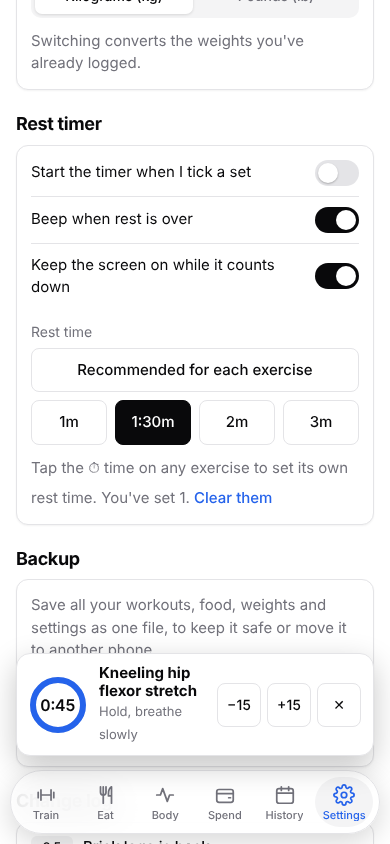
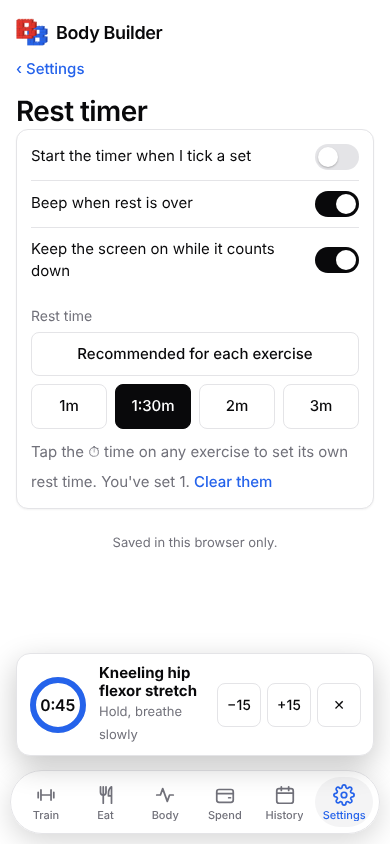
Version 2.6: Settings menu with sub-pages, foldable Train sections
- Settings is a short menu; each section opens on its own page, Change log last
- Warm-up, stretches and cardio fold; finished exercises fold to one line
- Edit page sections fold

Claude-Session: https://claude.ai/code/session_01PPQnAJQwZUgLDScDXN9x8H

diff --git a/index.html b/index.html
@@ -494,6 +494,36 @@ textarea.field.area{height:auto;min-height:96px;padding:10px;resize:vertical;lin
 .guide .vtag{width:auto;min-width:30px;padding:0 6px;font-variant-numeric:tabular-nums}
 .cld{display:block;font-weight:400;font-size:12px;color:var(--muted);margin:2px 0 0 46px}
 .clog summary>span{display:block}
+.secwrap{margin:22px 0 8px}
+.secbtn{display:flex;align-items:center;gap:8px;width:100%;border:0;background:none;padding:2px 0;text-align:left;font:inherit;color:inherit}
+.secbtn span{font-size:18px;font-weight:600;letter-spacing:-.02em}
+.secbtn small{margin-left:auto;font-size:13px;font-weight:400;color:var(--muted);letter-spacing:0}
+.secbtn svg{flex:none;color:var(--muted);transition:transform .15s}
+.secbtn[aria-expanded="true"] svg{transform:rotate(180deg)}
+.exdone{padding:0}
+.exdonebtn{display:flex;align-items:center;gap:12px;width:100%;border:0;background:none;padding:12px 14px;text-align:left}
+.exdonebtn .dchk{flex:none;width:26px;height:26px;border-radius:7px;display:grid;place-items:center;background:var(--c);color:var(--on);font-size:14px}
+.exdt{flex:1;min-width:0}
+.exdt strong{display:block;font-weight:500}
+.exdt small{display:block;color:var(--muted);font-size:13px}
+.exdonebtn svg{flex:none;color:var(--muted)}
+.edfold{padding:0}
+.edhd{display:flex;align-items:center;gap:10px;width:100%;border:0;background:none;text-align:left;padding:12px 14px}
+.edhd span{flex:1;min-width:0}
+.edhd strong{display:block;font-weight:500}
+.edhd small{display:block;color:var(--muted);font-size:13px;white-space:nowrap;overflow:hidden;text-overflow:ellipsis}
+.edhd svg{flex:none;color:var(--muted);transition:transform .15s}
+.edhd[aria-expanded="true"] svg{transform:rotate(180deg)}
+.edbody{padding:0 14px 14px;border-top:1px solid var(--line);padding-top:10px}
+.setnav{padding:0;overflow:hidden}
+.setrowbtn{display:flex;align-items:center;gap:10px;width:100%;border:0;border-top:1px solid var(--line);background:none;text-align:left;padding:13px 14px;min-height:56px}
+.setrowbtn:first-child{border-top:0}
+.setrowbtn span{flex:1;min-width:0}
+.setrowbtn strong{display:block;font-weight:500}
+.setrowbtn small{display:block;color:var(--muted);font-size:13px;white-space:nowrap;overflow:hidden;text-overflow:ellipsis}
+.setrowbtn svg{flex:none;color:var(--muted);transform:rotate(-90deg)}
+.setrowbtn:active{background:var(--mutedbg)}
+.backbtn{border:0;background:none;color:var(--blue);font-weight:500;padding:6px 0;font-size:15px}
 /* ---- tab island ---- */
 .island{position:fixed;left:50%;transform:translateX(-50%);bottom:calc(10px + env(safe-area-inset-bottom,0px));width:min(536px,calc(100% - 20px));display:flex;gap:2px;padding:6px;border-radius:999px;background:color-mix(in srgb,var(--surface) 80%,transparent);-webkit-backdrop-filter:blur(18px) saturate(1.6);backdrop-filter:blur(18px) saturate(1.6);border:1px solid var(--line);box-shadow:0 8px 28px rgba(0,0,0,.16);z-index:40}
 .itab{flex:1;min-width:0;display:flex;flex-direction:column;align-items:center;gap:3px;border:0;background:none;border-radius:999px;padding:7px 2px 6px;color:var(--muted);font-size:11px;font-weight:500;line-height:1.1}
@@ -1334,7 +1364,7 @@ const TABDEF={
 const TAB_ORDER=["train","eat","body","spend","hist","settings"],TAB_LOCKED=["train","eat","settings"];
 function tabCfg(){const c=store.settings.tabs||{};const order=(Array.isArray(c.order)?c.order:[]).filter((t,i,a)=>TABDEF[t]&&a.indexOf(t)===i);for(const t of TAB_ORDER)if(!order.includes(t))order.push(t);
   const hidden=(Array.isArray(c.hidden)?c.hidden:[]).filter(t=>TABDEF[t]&&!TAB_LOCKED.includes(t));return {order,hidden};}
-function openTab(t){if(!TABDEF[t])return;tab=t;render();window.scrollTo(0,0);}
+function openTab(t){if(!TABDEF[t])return;if(t==="settings"&&typeof setPage!=="undefined")setPage=null;tab=t;render();window.scrollTo(0,0);}
 function renderTabs(){const {order,hidden}=tabCfg();
   $("island").innerHTML=order.filter(t=>!hidden.includes(t)).map(t=>`<button type="button" class="itab" data-tab="${t}" aria-current="${t===tab?"page":"false"}">${TABDEF[t][1]}<span>${TABDEF[t][0]}</span></button>`).join("");}
 function hiddenTabNote(){const {hidden}=tabCfg();if(!hidden.includes(tab))return "";
@@ -1485,6 +1515,10 @@ function lastDrop(e,i){const [id,,,,flag]=e,k=sel,L=lastSetAt(id,k,i),b=bestFor(
 function rowsInfo(day,e){const id=e[0],rws=(day.sets&&day.sets[id])||[],rc=rowCount(day,e),types=[];for(let i=0;i<rc;i++)types.push(rowType(e,rws[i],i));return {rws,rc,types};}
 function singleCard(e,ctx){
   const [id,name,sets,target,flag,drop]=e,{k,p,day,v2}=ctx;
+  {const R=rowsInfo(day,e),all=R.rc>0&&Array.from({length:R.rc},(_,i)=>R.rws[i]&&R.rws[i].d).every(Boolean);
+   if(all&&!exOpen.has(k+":"+id)){const N=v=>parseFloat(String(v||"").replace(",","."))||0,top=R.rws.filter(r=>r&&r.d&&N(r.r)>0).sort((a,c)=>N(c.w)-N(a.w)||N(c.r)-N(a.r))[0];
+     return `<article class="card ex exdone" data-ex="${id}"><button type="button" class="exdonebtn" data-act="exexp" aria-label="${esc(name)}, all sets done. Tap to open"><span class="dchk">✓</span><span class="exdt"><strong>${esc(name)}</strong><small>${R.rc} ${R.rc===1?"set":"sets"} done${top?" · best "+setText(top,flag):""}</small></span>${IC.chev}</button></article>`;}
+   ctx._all=all;}
   let h=`<article class="card ex" data-ex="${id}">`+headerHtml(e,ctx);
   const rt=restFor(id,p,k),uni=v2&&UNI[id];
   if(rt&&(sets>1||drop))h+=`<button type="button" class="restbtn" data-act="restpick" data-id="${id}" aria-label="Rest time for ${esc(name)}: ${secLabel(restSecs(id,p,k))}. Tap to change.">${uni?"Go straight from one "+uni+" to the other, then rest":"Rest between sets"} <span class="chip">⏱ ${secLabel(restSecs(id,p,k))}${restOverride(id)?" (yours)":""}</span></button>`;
@@ -1493,7 +1527,7 @@ function singleCard(e,ctx){
   for(let i=0;i<rc;i++){const r=rws[i]||{w:"",r:"",d:false},isDrop=types[i]==="d";
     h+=setRowHtml(e,i,r,isDrop,isDrop?"↓":String(++num),true);
     if(isDrop&&!dropNoted&&types[i+1]!=="d"){dropNoted=true;h+=kw(`<p class="restline" style="margin:6px 0 0 4px">↑ Drop set: go straight into it with no rest. Cut the weight about 25–30% and go to failure.</p>`);}}
-  return h+`<div class="addrow"><button class="addset" data-act="addset">+ Set</button><button class="addset" data-act="adddrop">+ Drop set</button></div></article>`;
+  return h+`<div class="addrow"><button class="addset" data-act="addset">+ Set</button><button class="addset" data-act="adddrop">+ Drop set</button>${ctx._all?`<button class="addset" style="margin-left:auto;color:var(--muted)" data-act="excol">Fold away</button>`:""}</div></article>`;
 }
 function supersetCard(group,ctx){
   const {k,p,day,v2}=ctx,L="ABCDEF";
@@ -1510,9 +1544,14 @@ function supersetCard(group,ctx){
   }
   return h+`<div class="addrow"><button class="addset" data-act="addround" data-ids="${group.map(e=>e[0]).join(",")}">+ Round</button></div></article>`;
 }
+const secOpen={},exOpen=new Set(),edOpen=new Set();
+function secHead(k,sec,title,summary,auto){const key=k+":"+sec,col=key in secOpen?!secOpen[key]:auto;
+  return {col,html:`<h2 class="sec-title secwrap"><button type="button" class="secbtn" data-act="seccol" data-s="${sec}" data-c="${col?1:0}" aria-expanded="${!col}"><span>${title}</span><small>${summary}</small>${IC.chev}</button></h2>`};}
 function secWarm({k,p,P,v2,day},before){
   const WU=warmList(p,P,v2);if(!WU.length)return "";
-  return `<h2 class="sec-title">${before?"Warm-up, before "+(p==="run"?"the run":"training"):"Warm-up"}</h2><p class="note" style="margin:-4px 0 6px">About 5 minutes. Keep it moving, and save the long holds for after.</p>`+routineHtml("w",WU,day.warm||{});
+  const done=WU.filter((_,i)=>(day.warm||{})[i]).length,H=secHead(k,"warm",before?"Warm-up, before "+(p==="run"?"the run":"training"):"Warm-up",done>=WU.length?"Done":`${done} of ${WU.length} done`,done>=WU.length);
+  if(H.col)return H.html;
+  return H.html+`<p class="note" style="margin:-4px 0 6px">About 5 minutes. Keep it moving, and save the long holds for after.</p>`+routineHtml("w",WU,day.warm||{});
 }
 function secWork({k,p,P,v2,day}){
   const todayEx=dayExercises(k,p),planIds=new Set(todayEx.map(e=>e[0])),hiddenIds=hiddenExIds(day);let h="";
@@ -1543,7 +1582,9 @@ function secCardio({k,p,day}){
   const cl=day.cardioLog||[];
   const mon=addDays(k,-((parseKey(k).getDay()+6)%7));let wkMin=0;
   for(let i=0;i<7;i++){const dd=store.days[addDays(mon,i)];for(const c of (dd&&dd.cardioLog)||[])wkMin+=Number(c.m)||0;}
-  let h=`<h2 class="sec-title">Cardio</h2><div class="card">`;
+  const todayMin=cl.reduce((a,c)=>a+(Number(c.m)||0),0),H=secHead(k,"cardio","Cardio",todayMin?`${fmt(todayMin)} min today`:`${fmt(wkMin)} min this week`,!cl.length&&p!=="run");
+  if(H.col)return H.html;
+  let h=H.html+`<div class="card">`;
   if(cl.length)h+=cl.map((c,i)=>`<div class="swr li" data-sw="cardio" data-i="${i}">${swbg("Edit","Delete")}<div class="sw extra"><button class="entry" data-act="editentry">${esc(c.t)}</button><span style="display:flex;align-items:center;gap:6px"><b>${fmt(Number(c.m)||0)} min</b><button class="rm" data-act="rmcardio" data-i="${i}" aria-label="Remove ${esc(c.t)}">×</button></span></div></div>`).join("")+`<div style="height:10px"></div>`;
   h+=`<div class="chips">${store.settings.gymWalk?`<button class="chip" data-act="gymwalk">Walk to and from the gym<small>${fmt(store.settings.gymWalk)} min</small></button>`:""}${p==="run"?`<button class="chip" data-act="easyrun">Easy run<small>25 min</small></button>`:""}</div>
   <div class="buy"><select class="field" id="cT" aria-label="Cardio type">${["Walk","Run","Incline walk","Bike","Other"].map(x=>`<option${p==="run"&&x==="Run"?" selected":""}>${x}</option>`).join("")}</select><input class="field" id="cM" inputmode="numeric" placeholder="minutes" aria-label="Minutes"></div>
@@ -1551,21 +1592,24 @@ function secCardio({k,p,day}){
   <p class="note">This week: ${fmt(wkMin)} min</p></div>`;
   return h;
 }
-function secStretch({p,P,v2,day}){
+function secStretch({k,p,P,v2,day}){
   const ST=stretchList(p,P,v2);if(!ST.length)return "";
-  return `<h2 class="sec-title">${p==="rest"?"Mobility, 10–15 min":"Stretches, after "+(p==="run"?"the run":"training")}</h2><p class="note" style="margin:-4px 0 6px">${p==="rest"?"Easy and relaxed.":"Hold each gently, no bouncing."}</p>`+routineHtml("s",ST,day.stretch||{});
+  const done=ST.filter((_,i)=>(day.stretch||{})[i]).length,H=secHead(k,"stretch",p==="rest"?"Mobility, 10–15 min":"Stretches, after "+(p==="run"?"the run":"training"),done>=ST.length?"Done":`${done} of ${ST.length} done`,done>=ST.length);
+  if(H.col)return H.html;
+  return H.html+`<p class="note" style="margin:-4px 0 6px">${p==="rest"?"Easy and relaxed.":"Hold each gently, no bouncing."}</p>`+routineHtml("s",ST,day.stretch||{});
 }
 function renderLayoutEdit(k,p,P){
   const {order,hidden}=layoutCfg(),WU=warmList(p,P,true),ST=stretchList(p,P,true);
   const list=(kind,items)=>items.map((n,i)=>`<div class="tabrow"><span class="tabname">${esc(n)}</span><button type="button" class="mini" data-act="rtup" data-k="${kind}" data-i="${i}"${i===0?" disabled":""} aria-label="Move ${esc(n)} up">↑</button><button type="button" class="mini" data-act="rtrm" data-k="${kind}" data-i="${i}" aria-label="Remove ${esc(n)}">×</button></div>`).join("")||`<p class="note" style="margin:0">Nothing here yet.</p>`;
-  return `<div class="card"><p class="lbl" style="margin:0 0 4px">Page layout</p><p class="note" style="margin:0 0 6px">Change the order of the sections on your Train page, or hide the ones you don't use. This applies to every day.</p>
-  ${order.map((x,i)=>`<div class="tabrow"><span class="tabname">${SECS[x]}${hidden.includes(x)?"<small>Hidden</small>":""}</span>${x==="work"?"":`<button type="button" class="switch" role="switch" aria-checked="${!hidden.includes(x)}" data-act="laysw" data-v="${x}" aria-label="Show ${SECS[x]}"><i></i></button>`}<button type="button" class="mini" data-act="layup" data-v="${x}"${i===0?" disabled":""} aria-label="Move ${SECS[x]} up">↑</button><button type="button" class="mini" data-act="laydown" data-v="${x}"${i===order.length-1?" disabled":""} aria-label="Move ${SECS[x]} down">↓</button></div>`).join("")}</div>
-  <div class="card"><p class="lbl" style="margin:0 0 4px">Warm-up for ${esc(P.name)}</p>${list("w",WU)}
+  const fold=(id,title,sub,body)=>{const open=edOpen.has(id);return `<div class="card edfold"><button type="button" class="edhd" data-act="edsec" data-s="${id}" aria-expanded="${open}"><span><strong>${title}</strong><small>${sub}</small></span>${IC.chev}</button>${open?`<div class="edbody">${body}</div>`:""}</div>`;};
+  return fold("layout","Page layout",order.filter(x=>!hidden.includes(x)).map(x=>SECS[x]).join(" · "),`<p class="note" style="margin:0 0 6px">Change the order of the sections on your Train page, or hide the ones you don't use. This applies to every day.</p>
+  ${order.map((x,i)=>`<div class="tabrow"><span class="tabname">${SECS[x]}${hidden.includes(x)?"<small>Hidden</small>":""}</span>${x==="work"?"":`<button type="button" class="switch" role="switch" aria-checked="${!hidden.includes(x)}" data-act="laysw" data-v="${x}" aria-label="Show ${SECS[x]}"><i></i></button>`}<button type="button" class="mini" data-act="layup" data-v="${x}"${i===0?" disabled":""} aria-label="Move ${SECS[x]} up">↑</button><button type="button" class="mini" data-act="laydown" data-v="${x}"${i===order.length-1?" disabled":""} aria-label="Move ${SECS[x]} down">↓</button></div>`).join("")}`)+
+  fold("warm","Warm-up for "+esc(P.name),WU.length+" item"+(WU.length===1?"":"s"),`${list("w",WU)}
   <div class="buy" style="margin-top:8px"><input class="field" id="rtW" placeholder="Add a warm-up, like Jump rope, 2 min" aria-label="New warm-up item"><button type="button" class="btn" style="margin:0" data-act="rtadd" data-k="w">Add</button></div>
-  ${(custom().warm||{})[p]?`<button class="linkbtn" data-act="rtreset" data-k="w">Back to the suggested warm-up</button>`:""}</div>
-  <div class="card"><p class="lbl" style="margin:0 0 4px">Stretches for ${esc(P.name)}</p>${list("s",ST)}
+  ${(custom().warm||{})[p]?`<button class="linkbtn" data-act="rtreset" data-k="w">Back to the suggested warm-up</button>`:""}`)+
+  fold("stretch","Stretches for "+esc(P.name),ST.length+" item"+(ST.length===1?"":"s"),`${list("s",ST)}
   <div class="buy" style="margin-top:8px"><input class="field" id="rtS" placeholder="Add a stretch" aria-label="New stretch"><button type="button" class="btn" style="margin:0" data-act="rtadd" data-k="s">Add</button></div>
-  ${(custom().stretch||{})[p]?`<button class="linkbtn" data-act="rtreset" data-k="s">Back to the suggested stretches</button>`:""}</div>`;
+  ${(custom().stretch||{})[p]?`<button class="linkbtn" data-act="rtreset" data-k="s">Back to the suggested stretches</button>`:""}`);
 }
 function renderTrain(){
   const k=sel,p=planOf(k),PL=plansFor(k),P=PL[p],day=store.days[k]||{},v2=k>=NEWPLAN;
@@ -1990,7 +2034,7 @@ $("panel").addEventListener("click",e=>{
   if(act==="tick"||act==="addset"||act==="adddrop"||act==="settype"){
     const exEl=b.closest("[data-ex]"),id=exEl.dataset.ex,ex=exLookup(k,id);
     const day=ensureDay(k);
-    if(act==="tick"){const i=+b.dataset.i,rows=rowsFor(day,id,Math.max(rowCount(day,ex),i+1));rows[i].d=!rows[i].d;b.setAttribute("aria-pressed",String(rows[i].d));b.closest(".set").classList.toggle("is-done",rows[i].d);persist(docId);renderWeek();if(rows[i].d)afterTick(k,id,i,b);}
+    if(act==="tick"){const i=+b.dataset.i,rows=rowsFor(day,id,Math.max(rowCount(day,ex),i+1));rows[i].d=!rows[i].d;b.setAttribute("aria-pressed",String(rows[i].d));b.closest(".set").classList.toggle("is-done",rows[i].d);persist(docId);renderWeek();if(rows[i].d){afterTick(k,id,i,b);if(!b.closest(".ss")&&rows.length>=rowCount(day,ex)&&rows.slice(0,rowCount(day,ex)).every(r=>r.d)){exOpen.delete(k+":"+id);setTimeout(()=>{if(tab==="train"&&sel===k)renderTrain();},600);}}}
     else if(act==="settype"){const rows=materialize(day,ex),i=+b.dataset.i;if(!rows[i])return;rows[i].t=rows[i].t==="d"?"n":"d";persist(docId);renderTrain();}
     else{const rows=materialize(day,ex);rows.push({w:"",r:"",d:false,t:act==="adddrop"?"d":"n"});persist(docId);render();}
   }else if(act==="gymwalk"||act==="addcardio"){
@@ -2002,7 +2046,9 @@ $("panel").addEventListener("click",e=>{
   }else if(act==="hold"){rtAudioUnlock();rtStart(holdSecs(sinfo(b.dataset.n).hold),b.dataset.n,"Hold, breathe slowly","hold");
   }else if(act==="howto"){const id=b.closest("[data-ex]").dataset.ex;if(openHow.has(id))openHow.delete(id);else openHow.add(id);renderTrain();
   }else if(act==="warm"){const day=ensureDay(k),i=+b.dataset.i;day.warm=day.warm||{};day.warm[i]=!day.warm[i];if(!day.warm[i])delete day.warm[i];persist(docId);b.setAttribute("aria-pressed",String(!!day.warm[i]));
+    {const P=plansFor(k)[planOf(k)],L=warmList(planOf(k),P,k>=NEWPLAN);if(L.every((_,j)=>day.warm[j])){delete secOpen[k+":warm"];setTimeout(()=>{if(tab==="train")renderTrain();},500);}}
   }else if(act==="stretch"){const day=ensureDay(k),i=+b.dataset.i;day.stretch=day.stretch||{};day.stretch[i]=!day.stretch[i];if(!day.stretch[i])delete day.stretch[i];persist(docId);b.setAttribute("aria-pressed",String(!!day.stretch[i]));
+    {const P=plansFor(k)[planOf(k)],L=stretchList(planOf(k),P,k>=NEWPLAN);if(L.every((_,j)=>day.stretch[j])){delete secOpen[k+":stretch"];setTimeout(()=>{if(tab==="train")renderTrain();},500);}}
   }else if(act==="rmcardio"){const day=ensureDay(k);(day.cardioLog||[]).splice(+b.dataset.i,1);persist(docId);renderTrain();}
   else if(act==="pick"){const day=ensureDay(k);day.meals=day.meals||{};const sl=SLOTS.find(x=>x.id===b.dataset.slot),cur=chosen(sl,day);if(cur&&cur.id===b.dataset.opt)delete day.meals[sl.id];else day.meals[sl.id]=b.dataset.opt;persist(docId);renderEat();}
   else if(act==="rice"){const day=ensureDay(k);day.meals=day.meals||{};day.meals.rice=!day.meals.rice;if(!day.meals.rice)delete day.meals.rice;persist(docId);renderEat();}
@@ -2622,6 +2668,10 @@ sheetEl.addEventListener("click",e=>{
 $("panel").addEventListener("click",e=>{
   const b=e.target.closest("[data-act]");if(!b||tab!=="train")return;const a=b.dataset.act,S=store.settings;
   if(a==="exmenu"){exMenu(b.closest("[data-ex]").dataset.ex);}
+  else if(a==="seccol"){secOpen[sel+":"+b.dataset.s]=b.dataset.c==="1";renderTrain();}
+  else if(a==="exexp"){exOpen.add(sel+":"+b.closest("[data-ex]").dataset.ex);renderTrain();}
+  else if(a==="excol"){exOpen.delete(sel+":"+b.closest("[data-ex]").dataset.ex);renderTrain();}
+  else if(a==="edsec"){const id=b.dataset.s;if(edOpen.has(id))edOpen.delete(id);else edOpen.add(id);renderTrain();}
   else if(a==="note"){noteSheet(b.closest("[data-ex]").dataset.ex);}
   else if(a==="kw"){e.stopPropagation();const t=b.dataset.kw;openSheet(t.charAt(0).toUpperCase()+t.slice(1),`<p style="margin:0">${esc(GLOSS[t]||"")}</p><p class="note">You can turn these explanations off in Settings → Training.</p>`,[{label:"Got it",cls:"btn ghost"}]);}
   else if(a==="lastset"){const id=b.closest("[data-ex]").dataset.ex,key=id+":"+b.dataset.i;if(openLast.has(key))openLast.delete(key);else openLast.add(key);renderTrain();}
@@ -2770,8 +2820,9 @@ $("panel").addEventListener("click",e=>{if(tab!=="settings")return;const b=e.tar
   if(k==="level")S.level=v;else if(k==="repDefault"){if(v)S.repDefault=v;else delete S.repDefault;}else{if(v==="on")delete S[k];else S[k]=false;}persist("settings");renderSettings();});
 // ---------- Version and change log ----------
 // Major.Minor: a new major number for a redesign, a new minor number for each update.
-const APP_VERSION="2.5";
+const APP_VERSION="2.6";
 const CHANGELOG=[
+  {v:"2.6",d:"9 October 2026",t:"Less scrolling",items:["Settings is now a short menu. Each section opens on its own page, with Change log always last","Warm-up and stretches fold away once everything is ticked, and Cardio stays folded until you use it. Tap a section title to open or close it","Exercises fold into one line once every set is done. Tap to open them again","On the Edit page, layout, warm-up and stretches are folded until you open them"]},
   {v:"2.5",d:"9 October 2026",t:"Brick logo is back",items:["Back to the logo with two capital B's built from toy bricks, red in front of blue","The logo in the app has no background","How-to buttons are now a magnifying glass everywhere, including warm-ups and stretches","No more how-to for walking","Food calculator values checked against USDA data and supermarket labels. Fixed chicken thigh, lean beef mince and zaziki, and added regular cottage cheese next to the light one"]},
   {v:"2.4",d:"9 October 2026",t:"Body tab, recipes and help",items:["Progress chart with each weigh-in and a 7-day average. Tap it to see the numbers","Calories burned today and since you started, shown as a range, compared with body fat and food","Your real maintenance, worked out from your weight trend and the food you log","Sets per muscle this week, with the 10–20 set range marked","Strength chart showing your estimated one-rep max over time","Measurements, progress photos (website only, saved on your phone) and dated notes","Steps field removed from the Body tab","Recipes with ingredients and steps, and Log 1 serving today. Creamy garlic herb Cajun chicken is built in","Help rewritten as 21 chapters: using the app and training basics","New logo: a barbell with two capital B's as the plates","This change log"]},
   {v:"2.3",d:"9 October 2026",t:"Train tab rework",items:["Edit button under the week: reorder or hide page sections, your own warm-ups and stretches, exercises and schedule","Tap an exercise's name for its menu. The magnifying glass shows how to do it and the pen adds a note","⌄ on every set shows what you did last time and your best","Rep styles per exercise: Light, Medium or Heavy, with matching reps and rest","Suggested starting weights and a form reminder for New and Some experience","Swap list grouped by muscle, same muscle group first, with nothing cut off","57 more exercises, including calisthenics with Move up progressions","Tap-to-explain keywords like drop set and superset","New record alerts, a workout summary and a plate calculator"]},
@@ -2784,18 +2835,26 @@ const CHANGELOG=[
   {v:"1.0",d:"Early October 2026",t:"First version",items:["Workouts with sets, reps and drop sets","Meals, calories and protein","Body weight and weekly trend","Spending","Swipe to edit or delete, with undo"]}
 ];
 function changelogHtml(){return `<div class="guide clog">${CHANGELOG.map((c,i)=>`<details${i===0?" open":""}><summary><span><span class="chn vtag">${c.v}</span>${esc(c.t)}<small class="cld">${esc(c.d)}</small></span></summary><div class="gb"><ul>${c.items.map(x=>`<li>${esc(x)}</li>`).join("")}</ul></div></details>`).join("")}</div>`;}
+let setPage=null;
+function setPages(){const S=store.settings,T=themeCfg(),{hidden}=tabCfg(),tc=tcfg(),lv={new:"New",some:"Some experience",exp:"Experienced"}[S.level]||"Not set";
+  return [
+    ["appearance","Appearance",`${{system:"System",light:"Light",dark:"Dark"}[T.mode||"system"]} theme`,()=>`<div class="card">${settingsBody()}</div>`],
+    ["tabs","Tab bar",hidden.length?`${hidden.length} hidden: ${hidden.map(t=>TABDEF[t][0]).join(", ")}`:"All tabs shown",()=>`<div class="card">${tabsSettingsHtml()}</div>`],
+    ["training","Training",`${lv} · rep style ${(STYLES[S.repDefault]||["as planned"])[0].toLowerCase()}`,()=>`<div class="card">${trainingSettingsHtml()}</div>`],
+    ["units","Units and currency",`${U()} · ${curCode()}`,()=>`<div class="card">${unitsHtml()}</div>`],
+    ["timer","Rest timer",tc.auto===false?"Starts manually":"Starts when you tick a set",()=>`<div class="card">${timerSettingsHtml()}</div>`],
+    ...(isLocalMode()?[["backup","Backup","Save or restore all your data",()=>`<div class="card">${backupHtml()}</div>`]]:[]),
+    ["help","Help","How to use the app, and training basics",()=>guideHtml()],
+    ["changelog","Change log",`Version ${APP_VERSION}`,()=>changelogHtml()]
+  ];}
 function renderSettings(){
-  let h=`<section><h1 class="pagetitle">Settings</h1><p class="note" style="margin:0 0 4px">Body Builder, version ${APP_VERSION}</p>
-  <h2 class="sec-title">Appearance</h2><div class="card">${settingsBody()}</div>
-  <h2 class="sec-title">Tab bar</h2><div class="card">${tabsSettingsHtml()}</div>
-  <h2 class="sec-title">Training</h2><div class="card">${trainingSettingsHtml()}</div>
-  <h2 class="sec-title">Units and currency</h2><div class="card">${unitsHtml()}</div>
-  <h2 class="sec-title">Rest timer</h2><div class="card">${timerSettingsHtml()}</div>`;
-  if(isLocalMode())h+=`<h2 class="sec-title">Backup</h2><div class="card">${backupHtml()}</div>`;
-  h+=`<h2 class="sec-title">Change log</h2>${changelogHtml()}<h2 class="sec-title" id="helpsec">Help</h2>${guideHtml()}
-  <p class="note">${isLocalMode()?"Your data is saved on this device only. Download a backup now and then, and before you clear your browser data.":"Changes save to your account and show up on all your devices."}</p></section>`;
-  $("panel").innerHTML=h;
+  const P=setPages(),cur=P.find(x=>x[0]===setPage);let h=`<section>`;
+  if(cur){h+=`<button type="button" class="backbtn" data-sp="">‹ Settings</button><h1 class="pagetitle">${cur[1]}</h1>${cur[3]()}`;}
+  else{h+=`<h1 class="pagetitle">Settings</h1><p class="note" style="margin:0 0 12px">Body Builder, version ${APP_VERSION}</p><div class="card setnav">${P.map(x=>`<button type="button" class="setrowbtn" data-sp="${x[0]}"><span><strong>${x[1]}</strong><small>${esc(x[2])}</small></span>${IC.chev}</button>`).join("")}</div>
+  <p class="note">${isLocalMode()?"Your data is saved on this device only. Download a backup now and then, and before you clear your browser data.":"Changes save to your account and show up on all your devices."}</p>`;}
+  $("panel").innerHTML=h+`</section>`;
 }
+$("panel").addEventListener("click",e=>{if(tab!=="settings")return;const b=e.target.closest("[data-sp]");if(!b)return;setPage=b.dataset.sp||null;renderSettings();window.scrollTo(0,0);});
 $("panel").addEventListener("click",e=>{
   const b=e.target.closest("[data-tabset]");
   if(b){const [a,t]=b.dataset.tabset.split(":"),S=store.settings,c=tabCfg();S.tabs={order:c.order.slice(),hidden:c.hidden.slice()};const T=S.tabs,nm=TABDEF[t][0];
@@ -2840,7 +2899,7 @@ function guideHtml(){
   h+=ch("Tracking your weight properly",`<p>Your weight can swing 1–2 kg from day to day because of water, salt, carbs and digestion. Weigh in every morning after the bathroom, before eating, and judge progress by the <b>weekly average</b>. Measurements and photos help too, because you can lose fat and gain muscle at the same weight.</p>`);
   return h+`</div>`;
 }
-function openGuide(){openTab("settings");setTimeout(()=>{const h=$("helpsec");if(h)h.scrollIntoView();},30);}
+function openGuide(){openTab("settings");setPage="help";renderSettings();}
 bothOn("click",e=>{if((sheetEl._kind==="guide"||inSettings(e))&&e.target.closest("[data-gtour]")){closeSheet();setTimeout(tourStart,150);}});
 
 // ---------- Backup (website version) ----------

diff --git a/sw.js b/sw.js
@@ -1,6 +1,6 @@
 // Building Blocks service worker: lets the app open without internet.
 // Bump VERSION whenever index.html changes so phones pick up the update.
-const VERSION = "bb-2.5.4";
+const VERSION = "bb-2.6";
 const SHELL = ["./", "./index.html", "./manifest.webmanifest",
   "./icons/icon-192.png", "./icons/icon-512.png", "./icons/apple-touch-icon.png", "./icons/favicon-32.png"];
 
